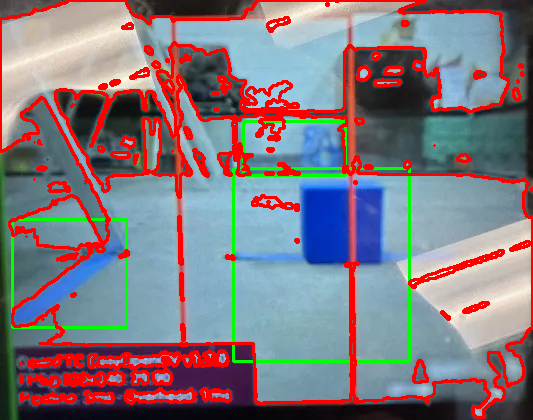
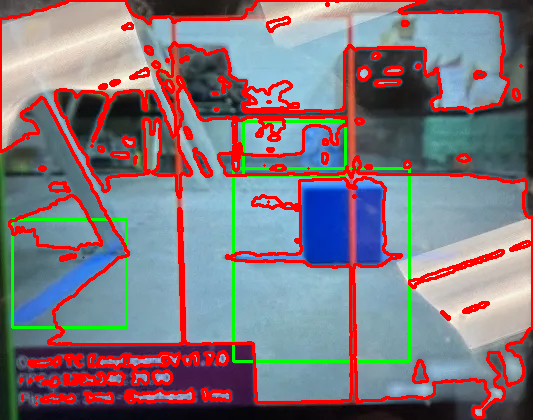
Intermediate commit 2: testing for potentially undesirable cross-over between operations.

diff --git a/main/src/Main.java b/main/src/Main.java
@@ -66,9 +66,9 @@ public class Main {
             }
             highlightContours(input, contours, RED_COLOR);
             output(outputDirectory + test.path.replace(directory, ""), 1, input);
-            output(outputDirectory + test.path.replace(directory, ""), 2, g);
-            output(outputDirectory + test.path.replace(directory, ""), 3, m);
-            output(outputDirectory + test.path.replace(directory, ""), 4, gm);
+            // output(outputDirectory + test.path.replace(directory, ""), 2, g);
+            // output(outputDirectory + test.path.replace(directory, ""), 3, m);
+            // output(outputDirectory + test.path.replace(directory, ""), 4, gm);
         }
     }
 
@@ -119,6 +119,8 @@ public class Main {
         return mask(src, ranges.toArray(new ColorRange[0]));
     }
     public static Mat mask(Mat src, ColorRange ...ranges) {
+        mask1.setTo(new Scalar(0, 0, 0, 0));
+        mask2.setTo(new Scalar(0, 0, 0, 0));
         for (ColorRange range : ranges) {
             Core.inRange(src, range.lowerBound, range.upperBound, mask2);
 
